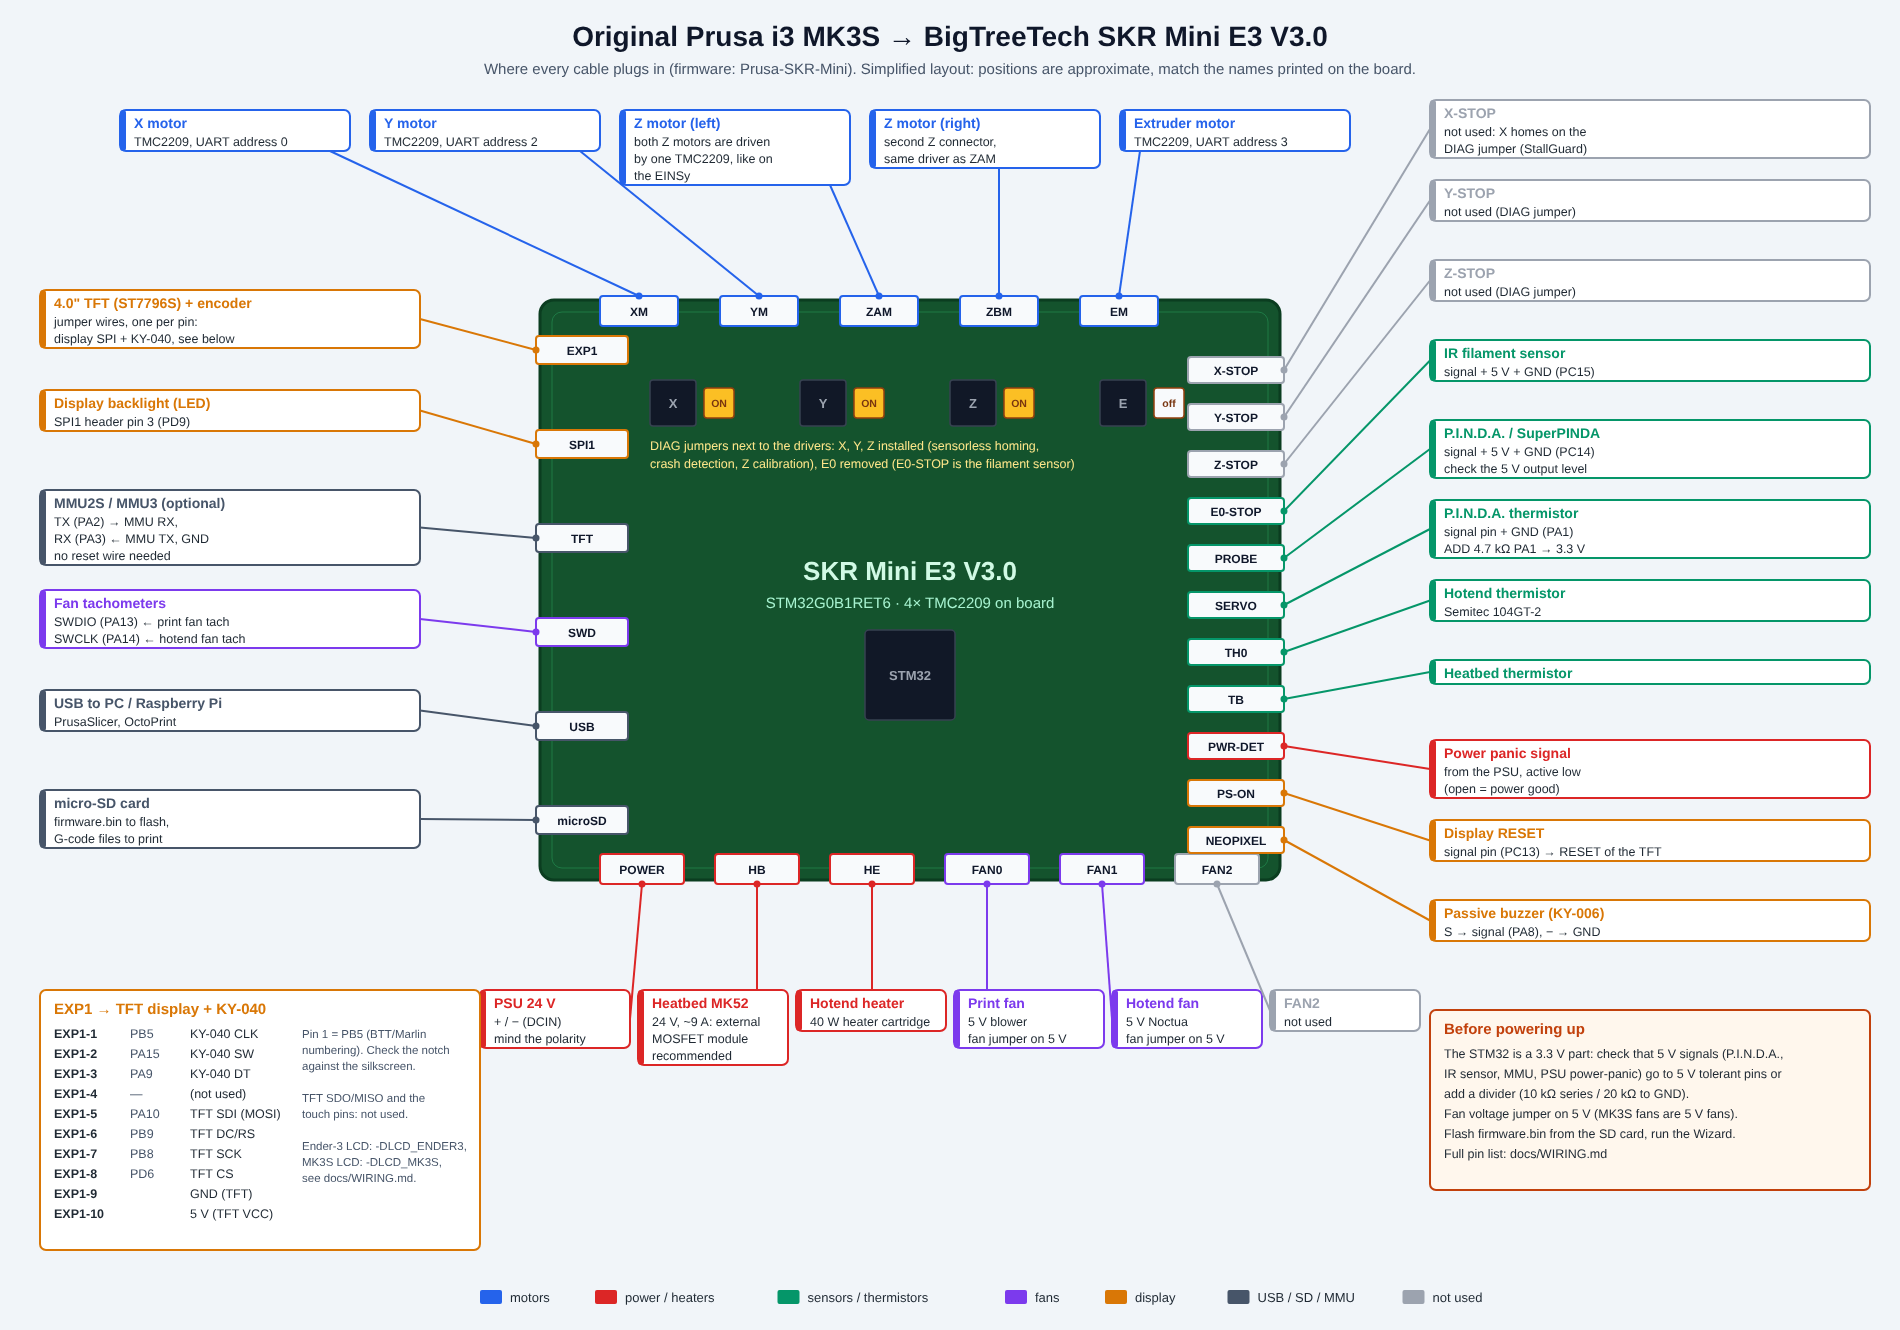
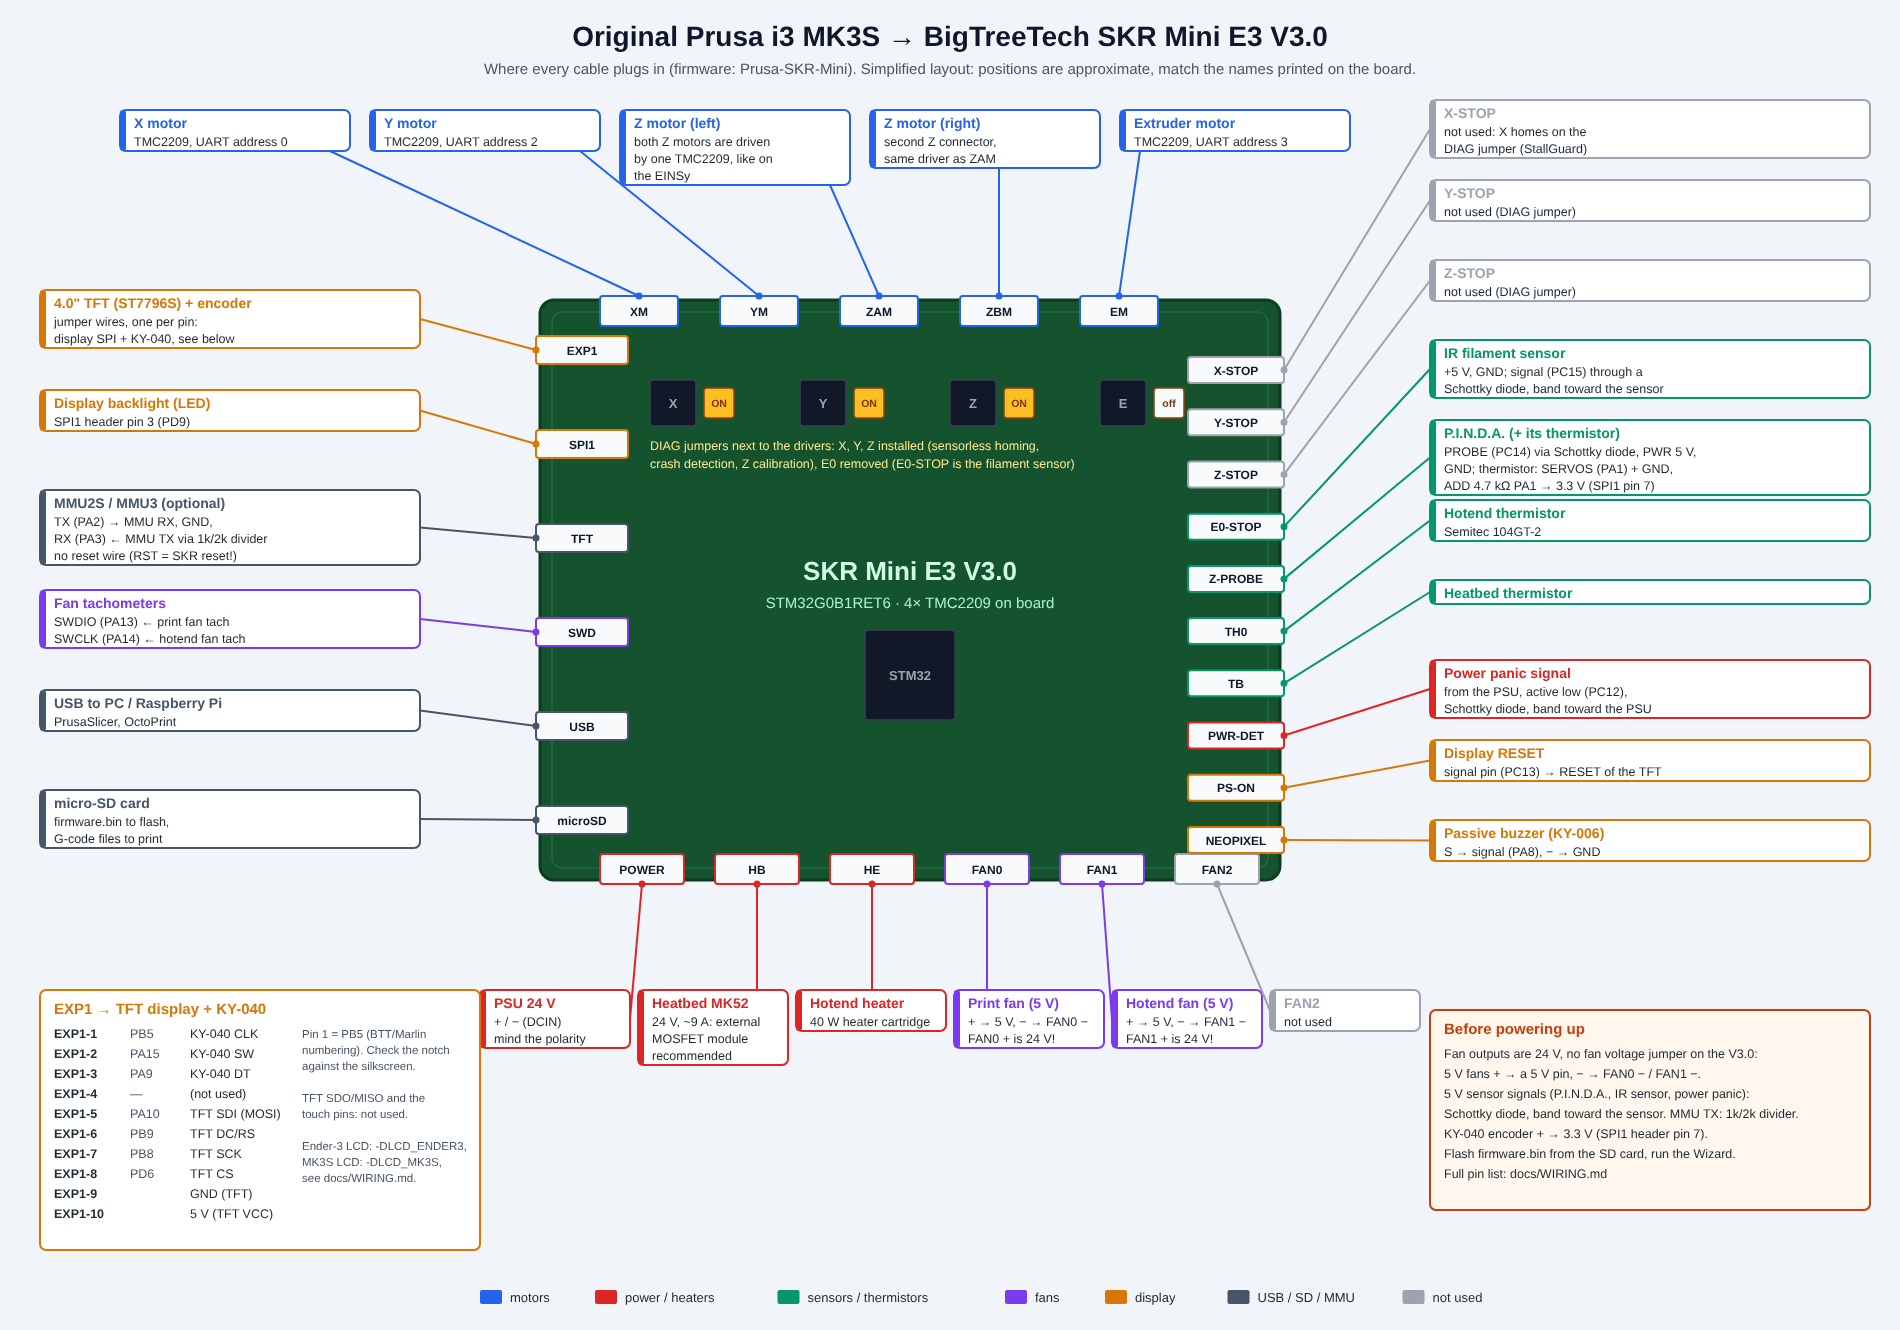
Wiring: fix the fan wiring and the sensor signal levels (checked against BTT schematic)
Checked against the BIGTREETECH SKR Mini E3 V3.0 schematic and pin diagram:
- The fan outputs have the input voltage (24 V) on +, a low-side MOSFET on
  -, and the V3.0 has no fan voltage jumper. The docs said to set a 5 V
  jumper: the MK3S 5 V fans go with + to a 5 V pin and - to FAN0-/FAN1-.
- The P.I.N.D.A. thermistor is on the SERVOS pin of the 5-pin Z-PROBE
  header (there is no separate SERVO header); 3.3 V is on SPI1 pin 7.
- 5 V sensor signals: a Schottky diode (cathode toward the sensor) with
  the 3.3 V pull-ups on the board side for the P.I.N.D.A., IR sensor and
  power panic; a 1k/2k divider for MMU TX. The TFT header RST pin is the
  SKR reset, not for the MMU reset wire.
- KY-040 encoder powered from 3.3 V. EXP1: the schematic numbers the
  header the other way round than the BTT/Marlin pin diagram.
Display wiring (EXP1, PS-ON, SPI1, Neopixel) confirmed, no resistors needed.

Claude-Session: https://claude.ai/code/session_019PCmiLZJZ35RQzJES1BVez

diff --git a/tools/wiring_diagram.py b/tools/wiring_diagram.py
@@ -75,8 +75,8 @@ for i, (name, title, lines) in enumerate(motors):
 bottom = [('POWER', 'power', 'PSU 24 V', ['+ / − (DCIN)', 'mind the polarity']),
           ('HB', 'power', 'Heatbed MK52', ['24 V, ~9 A: external', 'MOSFET module', 'recommended']),
           ('HE', 'power', 'Hotend heater', ['40 W heater cartridge']),
-          ('FAN0', 'fan', 'Print fan', ['5 V blower', 'fan jumper on 5 V']),
-          ('FAN1', 'fan', 'Hotend fan', ['5 V Noctua', 'fan jumper on 5 V']),
+          ('FAN0', 'fan', 'Print fan (5 V)', ['+ → 5 V, − → FAN0 −', 'FAN0 + is 24 V!']),
+          ('FAN1', 'fan', 'Hotend fan (5 V)', ['+ → 5 V, − → FAN1 −', 'FAN1 + is 24 V!']),
           ('FAN2', 'unused', 'FAN2', ['not used'])]
 for i, (name, group, title, lines) in enumerate(bottom):
     x = BX0 + 60 + i * 115
@@ -87,12 +87,11 @@ for i, (name, group, title, lines) in enumerate(bottom):
 right = [('X-STOP', 'unused', 'X-STOP', ['not used: X homes on the', 'DIAG jumper (StallGuard)']),
          ('Y-STOP', 'unused', 'Y-STOP', ['not used (DIAG jumper)']),
          ('Z-STOP', 'unused', 'Z-STOP', ['not used (DIAG jumper)']),
-         ('E0-STOP', 'sensor', 'IR filament sensor', ['signal + 5 V + GND (PC15)']),
-         ('PROBE', 'sensor', 'P.I.N.D.A. / SuperPINDA', ['signal + 5 V + GND (PC14)', 'check the 5 V output level']),
-         ('SERVO', 'sensor', 'P.I.N.D.A. thermistor', ['signal pin + GND (PA1)', 'ADD 4.7 kΩ PA1 → 3.3 V']),
+         ('E0-STOP', 'sensor', 'IR filament sensor', ['+5 V, GND; signal (PC15) through a', 'Schottky diode, band toward the sensor']),
+         ('Z-PROBE', 'sensor', 'P.I.N.D.A. (+ its thermistor)', ['PROBE (PC14) via Schottky diode, PWR 5 V,', 'GND; thermistor: SERVOS (PA1) + GND,', 'ADD 4.7 kΩ PA1 → 3.3 V (SPI1 pin 7)']),
          ('TH0', 'sensor', 'Hotend thermistor', ['Semitec 104GT-2']),
          ('TB', 'sensor', 'Heatbed thermistor', []),
-         ('PWR-DET', 'power', 'Power panic signal', ['from the PSU, active low', '(open = power good)']),
+         ('PWR-DET', 'power', 'Power panic signal', ['from the PSU, active low (PC12),', 'Schottky diode, band toward the PSU']),
          ('PS-ON', 'lcd', 'Display RESET', ['signal pin (PC13) → RESET of the TFT']),
          ('NEOPIXEL', 'lcd', 'Passive buzzer (KY-006)', ['S → signal (PA8), − → GND'])]
 n = len(right)
@@ -105,7 +104,7 @@ for i, (name, group, title, lines) in enumerate(right):
 # ---------------- left edge ----------------
 left = [('EXP1', 'lcd', '4.0" TFT (ST7796S) + encoder', ['jumper wires, one per pin:', 'display SPI + KY-040, see below']),
         ('SPI1', 'lcd', 'Display backlight (LED)', ['SPI1 header pin 3 (PD9)']),
-        ('TFT', 'comm', 'MMU2S / MMU3 (optional)', ['TX (PA2) → MMU RX,', 'RX (PA3) ← MMU TX, GND', 'no reset wire needed']),
+        ('TFT', 'comm', 'MMU2S / MMU3 (optional)', ['TX (PA2) → MMU RX, GND,', 'RX (PA3) ← MMU TX via 1k/2k divider', 'no reset wire (RST = SKR reset!)']),
         ('SWD', 'fan', 'Fan tachometers', ['SWDIO (PA13) ← print fan tach', 'SWCLK (PA14) ← hotend fan tach']),
         ('USB', 'comm', 'USB to PC / Raspberry Pi', ['PrusaSlicer, OctoPrint']),
         ('microSD', 'comm', 'micro-SD card', ['firmware.bin to flash,', 'G-code files to print'])]
@@ -138,12 +137,13 @@ text(tx + 262, ty + 192, 'see docs/WIRING.md.', 11.5, fill='#475569')
 
 # ---------------- legend + warnings ----------------
 lx, ly = 1430, 1010
-rect(lx, ly, 440, 180, '#fff7ed', '#c2410c', 6, 2)
+rect(lx, ly, 440, 200, '#fff7ed', '#c2410c', 6, 2)
 text(lx + 14, ly + 24, 'Before powering up', 15, weight='bold', fill='#c2410c')
-warn = ['The STM32 is a 3.3 V part: check that 5 V signals (P.I.N.D.A.,',
-        'IR sensor, MMU, PSU power-panic) go to 5 V tolerant pins or',
-        'add a divider (10 kΩ series / 20 kΩ to GND).',
-        'Fan voltage jumper on 5 V (MK3S fans are 5 V fans).',
+warn = ['Fan outputs are 24 V, no fan voltage jumper on the V3.0:',
+        '5 V fans + → a 5 V pin, − → FAN0 − / FAN1 −.',
+        '5 V sensor signals (P.I.N.D.A., IR sensor, power panic):',
+        'Schottky diode, band toward the sensor. MMU TX: 1k/2k divider.',
+        'KY-040 encoder + → 3.3 V (SPI1 header pin 7).',
         'Flash firmware.bin from the SD card, run the Wizard.',
         'Full pin list: docs/WIRING.md']
 for i, wl in enumerate(warn):

diff --git a/Firmware/pins_SKR_MINI_E3_V3.h b/Firmware/pins_SKR_MINI_E3_V3.h
@@ -16,7 +16,7 @@
 #define TMC2130              // the Prusa TMC2130 code paths are used, the driver layer talks to TMC2209s
 #define TMC2209              // ... over the single wire UART (USART4, PC10/PC11)
 #define UVLO_SUPPORT
-#define PINDA_THERMISTOR     // PINDA v2 thermistor on the SERVO header (PA1), see docs/WIRING.md
+#define PINDA_THERMISTOR     // PINDA v2 thermistor on the Z-PROBE header, SERVOS pin (PA1), see docs/WIRING.md
 #define AMBIENT_THERMISTOR   // the STM32 internal temperature sensor replaces the EINSy board thermistor
 //#define XFLASH             // no external SPI flash: no languages, no crash dumps
 //#define BOOTAPP            // the BTT SD card bootloader is used instead
@@ -59,7 +59,7 @@
 #define Z_STEP_PIN           PB0
 #define Z_DIR_PIN            PC5
 #define Z_ENABLE_PIN         PB1
-#define Z_MIN_PIN            PC14   // PROBE header: P.I.N.D.A.
+#define Z_MIN_PIN            PC14   // Z-PROBE header, PROBE pin: P.I.N.D.A.
 #define Z_MAX_PIN            -1
 #define Z_MS1_PIN            -1
 #define Z_MS2_PIN            -1
@@ -78,7 +78,7 @@
 // Analog inputs are given as ADC1 channel numbers, like the AVR ADC channels
 #define TEMP_0_PIN           0      // PA0  "TH0"  hotend thermistor
 #define TEMP_BED_PIN         17     // PC4  "TB"   bed thermistor
-#define TEMP_PINDA_PIN       1      // PA1  "SERVO" PINDA thermistor (needs a 4.7k pull-up to 3.3V)
+#define TEMP_PINDA_PIN       1      // PA1  Z-PROBE "SERVOS" pin: PINDA thermistor (needs a 4.7k pull-up to 3.3V)
 #define TEMP_1_PIN           -1
 #define TEMP_2_PIN           -1
 //#define VOLT_PWR_PIN       not available
@@ -108,7 +108,7 @@ static inline uint32_t adc_channel_pin(uint8_t ch) {
 #define SDCARDDETECT         PC3
 #define LED_PIN              PD8
 
-#define FAN_PIN              PC6    // "FAN0": print fan (5V, set the fan voltage jumper accordingly)
+#define FAN_PIN              PC6    // "FAN0" (low side): print fan, + to 5V (FAN0 + is 24V)
 #define FAN_1_PIN            -1
 #define PS_ON_PIN            -1
 #define KILL_PIN             -1
@@ -175,7 +175,7 @@ static inline uint32_t adc_channel_pin(uint8_t ch) {
 #define MMU_SERIAL_RX_PIN    PA3_ALT1 // "TFT" header (USART2)
 #define MMU_SERIAL_TX_PIN    PA2_ALT1
 
-#define EXTRUDER_0_AUTO_FAN_PIN PC7 // "FAN1": hotend fan (5V)
+#define EXTRUDER_0_AUTO_FAN_PIN PC7 // "FAN1" (low side): hotend fan, + to 5V (FAN1 + is 24V)
 
 // pins which M42/M226 must not touch (STM32 core digital pin numbers)
 #define _SKR_PIN(p) fastio::digital_index(p)

diff --git a/docs/WIRING.md b/docs/WIRING.md
@@ -9,11 +9,35 @@ The picture is a simplified layout ([SVG](wiring.svg), generated by
 `tools/wiring_diagram.py`): connector positions are approximate, go by the names
 printed on the board.
 
-> **Signal levels.** The STM32G0B1 is a 3.3 V part. Several MK3S parts (P.I.N.D.A.,
-> IR filament sensor, MK3S LCD board, MMU, PSU power-panic line) were designed for the 5 V
-> EINSy. Before connecting a 5 V signal to an STM32 input, check that the pin is
-> 5 V tolerant ("FT" in the STM32G0B1 datasheet) or put a resistor divider
-> (for example 10 kΩ series / 20 kΩ to GND) in the line. Measure first.
+Checked against the BIGTREETECH schematic and pin diagram of the V3.0 board
+([hardware files](https://github.com/bigtreetech/BIGTREETECH-SKR-mini-E3/tree/master/hardware/BTT%20SKR%20MINI%20E3%20V3.0/Hardware)).
+
+> **Fans: the SKR fan outputs are 24 V.** FAN0/FAN1/FAN2 have the input voltage on
+> their + pin and a low-side MOSFET on their − pin; there is **no 5 V fan jumper** on the
+> V3.0. The MK3S fans are 5 V fans: connecting them to the + pin destroys them. Connect
+> the fan **+ (red) to a 5 V pin** and only the fan **− (black) to the FAN − pin**, see
+> below.
+
+> **Signal levels.** The STM32G0B1 is a 3.3 V part, the MK3S sensors were made for the
+> 5 V EINSy. The board supplies the sensors with 5 V (E0-STOP: fixed 5 V; Z-PROBE: the
+> "PWR" rail, 5 V with the default jumper), and its inputs have no level shifters, only
+> ESD protection rated for 3.3 V. Keep the sensors on 5 V (they are specified for it)
+> and protect each 5 V signal:
+>
+> - **P.I.N.D.A., IR filament sensor, power panic**: a **Schottky diode** in the signal
+>   wire (BAT85, BAT43, 1N5817 or similar), **cathode (band) toward the sensor**. The
+>   sensor pulls the input low through the diode, the high level comes from the 3.3 V
+>   pull-up on the board side (10 kΩ on E0-STOP, the MCU pull-up on PROBE and PWR-DET,
+>   enabled by the firmware). Works with open-collector and push-pull outputs, no 5 V
+>   reaches the STM32.
+> - **MMU serial (MMU TX → SKR RX)**: a divider, **1 kΩ in series and 2 kΩ to GND** at
+>   the SKR side (5 V → 3.3 V). The other direction (SKR TX → MMU RX) needs nothing:
+>   3.3 V is a valid high level for the 5 V MMU board.
+> - Fan tachometers, thermistors, encoder and display: nothing needed.
+>
+> If you prefer to measure: power the sensor from the board and measure its signal wire
+> (not connected to the board) against GND in both states. 0 V / open in both states =
+> open collector, no diode needed. ~5 V in one state = use the diode.
 
 ## Board jumpers
 
@@ -21,7 +45,9 @@ printed on the board.
 |---|---|---|
 | DIAG X, Y, Z (next to the drivers) | **installed** | StallGuard output of the TMC2209 to X-STOP/Y-STOP/Z-STOP: sensorless homing, crash detection, Z calibration |
 | DIAG E0 | **removed** | E0-STOP is used by the filament sensor |
-| Fan voltage | **5 V** (or supply the fans from a separate 5 V source) | the MK3S hotend fan (Noctua) and print fan (blower) are 5 V fans |
+| Neo-PWR (next to the Neopixel header) | **onboard 5 V** (default) | "PWR" rail = 5 V for the Z-PROBE, TFT and Neopixel headers |
+
+There is no fan voltage jumper on the V3.0 (see the fan note above).
 
 ## Motors, heaters, thermistors
 
@@ -44,15 +70,19 @@ may differ from the EINSy).
 
 | MK3S part | SKR header | MCU pin | Notes |
 |---|---|---|---|
-| P.I.N.D.A. signal | PROBE (signal pin) | PC14 | 5 V supply from the PROBE header. Check the output level (see above) |
-| P.I.N.D.A. thermistor (PINDA v2) | SERVO (signal pin) | PA1 | **add a 4.7 kΩ resistor from PA1 to 3.3 V**; other wire to GND. Without a thermistor (SuperPINDA) remove `PINDA_THERMISTOR` from the pin file |
-| IR filament sensor output | E0-STOP | PC15 | sensor supply 5 V |
-| Print fan (5 V blower) | FAN0 | PC6 | |
-| Hotend fan (5 V Noctua) | FAN1 | PC7 | |
+| P.I.N.D.A. signal | Z-PROBE header: PROBE pin (signal), PWR (5 V), GND | PC14 | through a Schottky diode, cathode toward the P.I.N.D.A. (see above) |
+| P.I.N.D.A. thermistor (PINDA v2) | Z-PROBE header: SERVOS pin, GND | PA1 | **add a 4.7 kΩ resistor from PA1 to 3.3 V** (3.3 V: pin 7 of the SPI1 header). Without a thermistor (SuperPINDA) remove `PINDA_THERMISTOR` from the pin file |
+| IR filament sensor output | E0-STOP (signal), +5 V, GND | PC15 | through a Schottky diode, cathode toward the sensor |
+| Print fan (5 V blower) | **+ to 5 V**, − to FAN0 − | PC6 | **not** to FAN0 + (24 V) |
+| Hotend fan (5 V Noctua) | **+ to 5 V**, − to FAN1 − | PC7 | **not** to FAN1 + (24 V) |
 | Print fan tachometer | SWD header, SWDIO | PA13 | internal pull-up. No debugger can be used while connected |
 | Hotend fan tachometer | SWD header, SWCLK | PA14 | internal pull-up |
-| PSU power-panic signal | PWR-DET | PC12 | active low, internal pull-up (unconnected = power good) |
-| MMU2S/MMU3 serial | TFT header | PA2 = TX → MMU RX, PA3 = RX ← MMU TX | 115200 Bd, the MMU is reset over the protocol (no reset wire) |
+| PSU power-panic signal | PWR-DET (signal, GND) | PC12 | active low, internal pull-up (unconnected = power good); Schottky diode, cathode toward the PSU |
+| MMU2S/MMU3 serial | TFT header | PA2 = TX → MMU RX, PA3 = RX ← MMU TX | 115200 Bd. MMU TX → PA3 through the 1 kΩ / 2 kΩ divider. The MMU is reset over the protocol: do **not** connect the MMU reset wire to the TFT header "RST" pin, that is the reset of the SKR |
+
+5 V for the fans: the +5 V pin of EXP1, E0-STOP, Neopixel ("PWR") or TFT header; the fans
+draw about 0.2 A together, the onboard 5 V regulator supplies up to 3 A. The tachometer
+wires (yellow) go to the SWD header as listed; they are open collector, no resistor.
 
 ## Display: color TFT (default)
 
@@ -94,7 +124,7 @@ in a modern dark style; the status screen is a dashboard:
 | CLK | EXP1-1 | PB5 |
 | DT | EXP1-3 | PA9 |
 | SW | EXP1-2 | PA15 |
-| + / GND | any 5 V / GND pin (e.g. split from EXP1-10 / EXP1-9) | |
+| + / GND | **3.3 V** (SPI1 header pin 7) / GND | the KY-040 pull-ups then pull to 3.3 V |
 
 | Buzzer (KY-006) pin | SKR header / pin | MCU pin |
 |---|---|---|
@@ -102,7 +132,14 @@ in a modern dark style; the status screen is a dashboard:
 | − | NEOPIXEL header, GND | |
 
 The display module has its own 3.3 V regulator and 3.3 V logic, so it connects
-directly. EXP1 pin numbers: 1 = PB5, 2 = PA15, 3 = PA9, 4 = RESET (not used),
+directly: no resistors anywhere in the display, encoder or buzzer wiring. The Neopixel
+output is buffered to 5 V on the board (74LVC1G125), which drives the buzzer directly.
+
+**EXP1 pin numbers.** This document uses the BTT/Marlin numbering of the pin diagram
+(1 = PB5 … 10 = +5 V). The schematic numbers the same header the other way round
+(J10 pin 1 = 5 V), and the triangle on the board may follow either. Go by the signal
+names, and before connecting the display, measure with the board powered over USB:
++5 V and GND are the pair at one end of the header, PB5/PA15 at the other end. EXP1 pin numbers: 1 = PB5, 2 = PA15, 3 = PA9, 4 = RESET (not used),
 5 = PA10, 6 = PB9, 7 = PB8, 8 = PD6, 9 = GND, 10 = 5 V (BTT/Marlin numbering, check
 the notch against the silkscreen).
 

diff --git a/README.md b/README.md
@@ -56,9 +56,10 @@ settings of another firmware, the printer then starts like a new MK3S: run the
 ## Wiring
 
 See [docs/WIRING.md](docs/WIRING.md) and the [wiring picture](docs/wiring.png). In short: motors, heaters and thermistors go to
-the usual headers, the P.I.N.D.A. to the PROBE header (its thermistor to SERVO with a
-4.7 kΩ pull-up), the IR filament sensor to E0-STOP, the TMC2209 DIAG jumpers X/Y/Z
-must be installed, and the display is a **480x320 color TFT** (ST7796S, SPI) with a
+the usual headers, the P.I.N.D.A. to the Z-PROBE header (its thermistor to the SERVOS
+pin with a 4.7 kΩ pull-up), the IR filament sensor to E0-STOP (5 V sensor signals through
+a Schottky diode), the 5 V fans with + to 5 V and − to FAN0/FAN1 − (the SKR fan outputs
+are 24 V), the TMC2209 DIAG jumpers X/Y/Z must be installed, and the display is a **480x320 color TFT** (ST7796S, SPI) with a
 KY-040 encoder and a buzzer, wired to EXP1 and three spare headers. The Creality
 Ender-3 LCD (`-DLCD_ENDER3`, plug and play) and the original MK3S LCD (`-DLCD_MK3S`,
 custom harness) are build options.
